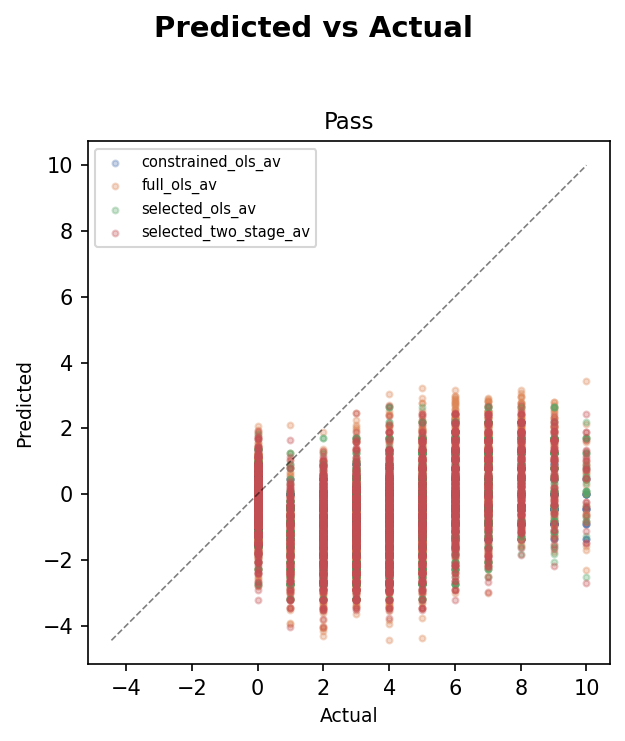
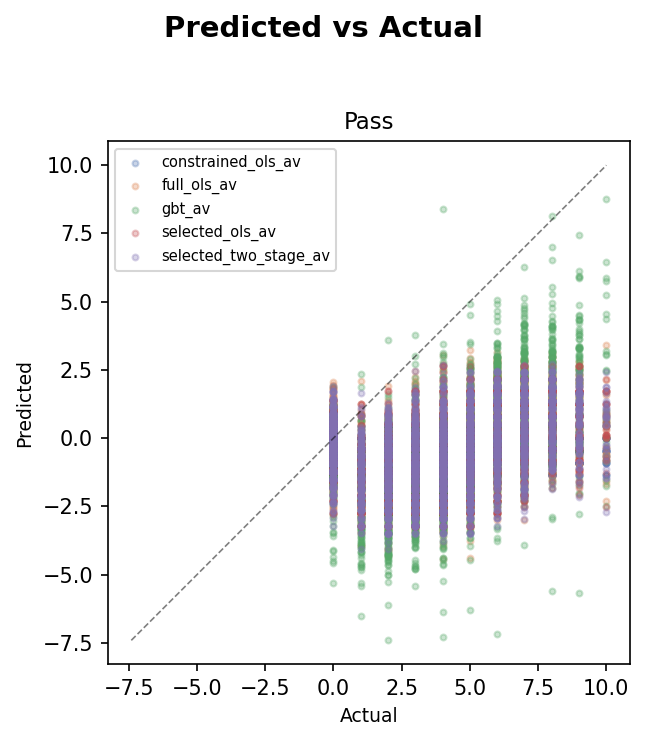
fix: regenerate R0-R2/FULL model-eval PNGs with GBT evidence (#993)
* fix: address 3 Codex review findings on PR #980

- Replace PR #TBD with PR #980 in DS-3 status (Finding #3)
- Document pass-only contract limitation as pre-existing (Finding #2)
- Note that dashboard PNGs were not re-rendered (Finding #1)

* fix: tighten session plan to match shipped reality

Remove 01_results.md and tables/*.csv from Files Modified (not changed).
Document pass-only contract and un-rendered chart gaps in Outcome.
Replace PR: _TBD_ with #980 link.

* fix: regenerate R0-R2/FULL model-eval PNGs with GBT evidence

PR #980 added GBT rows to model-eval CSVs but the rendered PNGs
(Charts 16-18 + dashboard_model_eval) still showed only 4 OLS-family
models. Regenerate all 12 model-eval PNGs from the updated CSVs so
the reader-facing charts now include GBT.

Changes:
- 12 PNGs regenerated (4 charts × 3 rungs) now showing 5 models
- Manifests (00_manifest.md) updated with accurate byte sizes
- Evidence manifests (evidence_manifest.json) updated
- DS-3 governing plan: fix #TBD → #980, remove "Remaining gap"
- Fix pre-existing R0/R1 dashboard_model_eval size discrepancy

Charts 21/22 remain data-blocked (DS-2): action_value.parquet does
not exist for any rung. DS-1 (QUICK synthetic) unchanged.

---------

diff --git a/plans/sessions/2026-03-19_model-eval-chart-regen.md b/plans/sessions/2026-03-19_model-eval-chart-regen.md
@@ -1,0 +1,117 @@
+# Model-Eval Chart Regeneration + DS-3 Closure
+
+**Date:** 2026-03-19
+**Branch:** `fix/model-eval-chart-regen-and-ds3`
+**Predecessor:** PR #980 (merged) — regenerated R0-R2/FULL model-eval CSVs with GBT rows
+
+## Goal
+
+Re-render the reader-facing model-eval PNGs (Charts 16-18 + dashboard_model_eval)
+for R0-R2/FULL so they reflect the GBT evidence now present in the underlying
+CSVs. Fix the governing-plan `#TBD` placeholder. Confirm Charts 21/22 remain
+data-blocked. Produce a clean single PR.
+
+## State Assessment
+
+| Item | Current State | Target State |
+|------|--------------|-------------|
+| R0-R2/FULL model-eval CSVs | ✅ Include `gbt_av` (5 models total) via PR #980 | No change needed |
+| R0-R2/FULL model-eval PNGs | ❌ STALE — rendered from pre-GBT CSVs (PR #881) | Regenerate from updated CSVs |
+| DS-3 governing plan text | Says `(PR #TBD)` | Fix to `(PR #980)` |
+| R0-R2/FULL manifests | Reflect CSV sizes from #980 | Update PNG sizes after regen |
+| Charts 21/22 (DS-2) | Data-blocked — no `action_value.parquet` exists | Confirm still blocked, no action |
+| DS-1 (QUICK synthetic) | Accepted policy | No change |
+| DS-4 (R3/FULL parity) | Resolved (PR #972) | No change |
+
+## Scope
+
+### In scope
+
+1. Regenerate 4 model-eval PNGs × 3 rungs (R0-R2/FULL):
+   - `full_chart_suite/pred_vs_actual.png`
+   - `full_chart_suite/residual_distribution.png`
+   - `full_chart_suite/calibration_curve.png`
+   - `dashboard_model_eval.png`
+2. Update `00_manifest.md` with new PNG byte sizes (3 rungs)
+3. Update `evidence_manifest.json` with new PNG byte sizes (3 rungs)
+4. Fix `#TBD` → `#980` in governing plan DS-3 section
+5. Confirm Charts 21/22 remain data-blocked (no implementation)
+
+### Out of scope
+
+- Regenerating non-model-eval charts (no CSV changes for those)
+- Charts 21/22 implementation (no parquet data available)
+- QUICK mode changes
+- R3/FULL changes (already at parity)
+- Full bundle regeneration
+- Report narrative rewrites
+
+## Approach: Targeted Chart Regeneration
+
+The `generate_rung_charts.py` CLI generates ALL charts in one pass. To avoid
+unnecessary churn in unrelated PNGs (matplotlib version differences could cause
+pixel-level changes), use a targeted Python script that calls only the 4
+model-eval chart functions.
+
+Each function reads from `chart_data/` CSVs and writes to `charts/`:
+- `generate_predictions_scatter(chart_data_dir, suite_dir)`
+- `generate_residuals_chart(chart_data_dir, suite_dir)`
+- `generate_calibration_curve(chart_data_dir, suite_dir)`
+- `generate_dashboard_model_eval(tables_dir, charts_dir, chart_data_dir)`
+
+Input directories per rung:
+- `tables_dir`: `docs/04_reports/arc_d_v2/<rung>/full/tables/`
+- `chart_data_dir`: `docs/04_reports/arc_d_v2/<rung>/full/chart_data/`
+- `suite_dir`: `docs/04_reports/arc_d_v2/<rung>/full/charts/full_chart_suite/`
+- `charts_dir`: `docs/04_reports/arc_d_v2/<rung>/full/charts/`
+
+## Charts 21/22 Feasibility Assessment
+
+**Result: DATA-BLOCKED — no action.**
+
+- `.joblib` models exist: ✅ (`gbt_{high,low,pass,suit}.joblib` for R0-R2)
+- `action_value.parquet` exists: ❌ (not present for any rung)
+- `generate_interpretability.py` requires both `.joblib` AND `action_value.parquet`
+- Parquet files live in `data/runs/` (gitignored, large runtime artifacts)
+- DS-2 remains accurately described as data-blocked
+
+## Validation Plan
+
+### Artifact checks
+- Verify regenerated PNGs differ from pre-regen versions (new models visible)
+- Verify manifest byte sizes match actual file sizes
+- Verify evidence_manifest.json matches
+
+### Automated tests
+- `uv run python -m pytest -q tests/unit/test_rung_charts.py`
+- `uv run python -m pytest -q tests/unit/test_rung_report.py`
+- `uv run python -m pytest -q tests/unit/test_bundle_hygiene.py`
+- `make check-quiet`
+
+## Outcome
+
+**PR:** #TBD
+
+### What shipped
+- 12 model-eval PNGs regenerated (Charts 16-18 + dashboard_model_eval × 3 rungs)
+- All PNGs now include GBT model alongside 4 OLS-family models (5 total)
+- 3 `00_manifest.md` + 3 `evidence_manifest.json` updated with accurate byte sizes
+- DS-3 `#TBD` → `#980` fix + removed "Remaining gap" about un-rendered PNGs
+- R0/R1 `dashboard_model_eval.png` pre-existing size discrepancy fixed
+
+### Items 1-4 assessment
+1. ✅ #980 verified on main, DS-3 truthfulness pass done
+2. ✅ Model-eval surfaces regenerated for R0-R2/FULL
+3. ✅ DS-3 fully resolved — no remaining gaps
+4. ❌ Charts 21/22 deferred — `action_value.parquet` does not exist for any rung (DS-2 unchanged)
+
+### Remaining degraded states
+- **DS-1:** QUICK synthetic outcome distributions (accepted policy — unchanged)
+- **DS-2:** Charts 21/22 data-blocked (no `action_value.parquet`) — unchanged
+
+### Validation
+- test_rung_charts: 56 passed
+- test_rung_report: 36 passed
+- test_bundle_hygiene: 30 passed, 4 skipped
+- `make check-quiet`: all passed
+- All 12 manifest + 12 evidence_manifest size entries verified vs actual files

diff --git a/plans/sessions/2026-03-19_full-bundle-gbt-model-eval.md b/plans/sessions/2026-03-19_full-bundle-gbt-model-eval.md
@@ -74,14 +74,15 @@ done
 
 Expected: `gbt_av` rows appear alongside existing OLS-family rows.
 
-### Step 3: Refresh affected manifests and results
+### Step 3: Refresh affected manifests
 
-For each rung, regenerate:
-- `00_manifest.md` — update chart inventory to reflect new model-eval data
-- `evidence_manifest.json` — update CSV inventory
-- `01_results.md` — update model-eval dashboard narrative
+For each rung, update CSV size metadata:
+- `00_manifest.md` — update `calibration_bins.csv`, `predictions.csv`, `residuals.csv` sizes
+- `evidence_manifest.json` — update `size_bytes` for the same 3 CSVs
 
-Use `generate_rung_report.py` or `generate_evidence_manifest.py` as appropriate.
+Note: `01_results.md` and dashboard PNGs (Charts 16-18) were **not** refreshed
+in this PR. The GBT data ships in the CSVs but is not yet surfaced in the
+chart/report reading experience. This is documented in the governing plan DS-3.
 
 ### Step 4: Update DS-3 in governing plan
 
@@ -103,10 +104,8 @@ bundles.
 | `docs/04_reports/arc_d_v2/r{0,1,2}/full/chart_data/predictions.csv` | Add GBT rows |
 | `docs/04_reports/arc_d_v2/r{0,1,2}/full/chart_data/residuals.csv` | Add GBT rows |
 | `docs/04_reports/arc_d_v2/r{0,1,2}/full/chart_data/calibration_bins.csv` | Add GBT rows |
-| `docs/04_reports/arc_d_v2/r{0,1,2}/full/tables/*.csv` | Possible minor regeneration changes |
-| `docs/04_reports/arc_d_v2/r{0,1,2}/full/00_manifest.md` | Updated chart inventory |
-| `docs/04_reports/arc_d_v2/r{0,1,2}/full/evidence_manifest.json` | Updated CSV inventory |
-| `docs/04_reports/arc_d_v2/r{0,1,2}/full/01_results.md` | Updated model-eval narrative |
+| `docs/04_reports/arc_d_v2/r{0,1,2}/full/00_manifest.md` | Updated CSV sizes |
+| `docs/04_reports/arc_d_v2/r{0,1,2}/full/evidence_manifest.json` | Updated CSV size_bytes |
 | `plans/arc_d_v2/reporting_refactor_full_plan.md` | DS-3 status update |
 
 ## Out of Scope
@@ -127,7 +126,7 @@ bundles.
 
 ## Outcome
 
-**Status:** COMPLETE
+**Status:** COMPLETE (with documented remaining gaps)
 
 Regenerated model-eval CSVs for R0-R2/FULL bundles with GBT rows.
 
@@ -136,7 +135,13 @@ Regenerated model-eval CSVs for R0-R2/FULL bundles with GBT rows.
 - Before: 20,000 rows (4 OLS-family models × 5,000 each)
 - After: 25,000 rows (5 models × 5,000 each)
 - Manifests and evidence manifests updated with new sizes
-- DS-3 in governing plan marked RESOLVED
+- DS-3 in governing plan marked RESOLVED (PR #972 code fix + PR #980 regeneration)
 - DS-4 PR reference updated to #972
 
-**PR:** _TBD_
+**Not shipped (documented in DS-3):**
+- `01_results.md` unchanged — no narrative update for GBT model-eval
+- Dashboard PNGs (Charts 16-18) not re-rendered from updated CSVs
+- All model-eval CSVs contain only `contract=pass` rows (pre-existing limitation:
+  `bid_n_sq` derived feature missing from eval parquet)
+
+**PR:** [#980](https://github.com/Questuart/Bid-Euchre/pull/980)

diff --git a/docs/04_reports/arc_d_v2/r0/full/00_manifest.md b/docs/04_reports/arc_d_v2/r0/full/00_manifest.md
@@ -71,7 +71,7 @@
 |---|-------|------|------|--------|
 | 1 | Competitive Dashboard | `dashboard_competitive.png` | 208,797 bytes | present |
 | 2 | Health Dashboard | `dashboard_health.png` | 148,492 bytes | present |
-| 3 | Model Evaluation Dashboard | `dashboard_model_eval.png` | 108,426 bytes | present |
+| 3 | Model Evaluation Dashboard | `dashboard_model_eval.png` | 281,257 bytes | present |
 | 4 | Comparator Ranking Bars | `full_chart_suite/comparator_ranking_bars.png` | 25,614 bytes | present |
 | 5 | Tail Risk Panel | `full_chart_suite/tail_risk_panel.png` | 26,261 bytes | present |
 | 6 | H2H Delta by Contract | `full_chart_suite/delta_bars_by_contract.png` | 209,361 bytes | present |
@@ -84,9 +84,9 @@
 | 13 | Bid Level Distribution | `full_chart_suite/bid_level_distribution.png` | 33,579 bytes | present |
 | 14 | R-squared by Contract | `full_chart_suite/r2_by_contract.png` | 35,910 bytes | present |
 | 15 | MAE by Contract | `full_chart_suite/mae_by_contract.png` | 34,173 bytes | present |
-| 16 | Predicted vs Actual | `full_chart_suite/pred_vs_actual.png` | 79,478 bytes | present |
-| 17 | Residual Distribution | `full_chart_suite/residual_distribution.png` | 35,137 bytes | present |
-| 18 | Calibration Curve | `full_chart_suite/calibration_curve.png` | 45,733 bytes | present |
+| 16 | Predicted vs Actual | `full_chart_suite/pred_vs_actual.png` | 82,813 bytes | present |
+| 17 | Residual Distribution | `full_chart_suite/residual_distribution.png` | 36,482 bytes | present |
+| 18 | Calibration Curve | `full_chart_suite/calibration_curve.png` | 48,213 bytes | present |
 | 19 | Selection Path | `full_chart_suite/selection_path.png` | 99,004 bytes | present |
 | 20 | Feature Importance | `full_chart_suite/feature_importance.png` | 103,181 bytes | present |
 | 21 | Decision Agreement | `full_chart_suite/decision_agreement.png` | - | absent |

diff --git a/docs/04_reports/arc_d_v2/r1/full/00_manifest.md b/docs/04_reports/arc_d_v2/r1/full/00_manifest.md
@@ -71,7 +71,7 @@
 |---|-------|------|------|--------|
 | 1 | Competitive Dashboard | `dashboard_competitive.png` | 210,740 bytes | present |
 | 2 | Health Dashboard | `dashboard_health.png` | 148,556 bytes | present |
-| 3 | Model Evaluation Dashboard | `dashboard_model_eval.png` | 111,797 bytes | present |
+| 3 | Model Evaluation Dashboard | `dashboard_model_eval.png` | 295,349 bytes | present |
 | 4 | Comparator Ranking Bars | `full_chart_suite/comparator_ranking_bars.png` | 25,619 bytes | present |
 | 5 | Tail Risk Panel | `full_chart_suite/tail_risk_panel.png` | 26,262 bytes | present |
 | 6 | H2H Delta by Contract | `full_chart_suite/delta_bars_by_contract.png` | 208,507 bytes | present |
@@ -84,9 +84,9 @@
 | 13 | Bid Level Distribution | `full_chart_suite/bid_level_distribution.png` | 33,565 bytes | present |
 | 14 | R-squared by Contract | `full_chart_suite/r2_by_contract.png` | 35,934 bytes | present |
 | 15 | MAE by Contract | `full_chart_suite/mae_by_contract.png` | 36,745 bytes | present |
-| 16 | Predicted vs Actual | `full_chart_suite/pred_vs_actual.png` | 67,882 bytes | present |
-| 17 | Residual Distribution | `full_chart_suite/residual_distribution.png` | 37,714 bytes | present |
-| 18 | Calibration Curve | `full_chart_suite/calibration_curve.png` | 54,536 bytes | present |
+| 16 | Predicted vs Actual | `full_chart_suite/pred_vs_actual.png` | 78,766 bytes | present |
+| 17 | Residual Distribution | `full_chart_suite/residual_distribution.png` | 40,104 bytes | present |
+| 18 | Calibration Curve | `full_chart_suite/calibration_curve.png` | 58,230 bytes | present |
 | 19 | Selection Path | `full_chart_suite/selection_path.png` | 82,582 bytes | present |
 | 20 | Feature Importance | `full_chart_suite/feature_importance.png` | 104,763 bytes | present |
 | 21 | Decision Agreement | `full_chart_suite/decision_agreement.png` | - | absent |

diff --git a/docs/04_reports/arc_d_v2/r2/full/00_manifest.md b/docs/04_reports/arc_d_v2/r2/full/00_manifest.md
@@ -63,7 +63,7 @@
 |---|-------|------|------|--------|
 | 1 | Competitive Dashboard | `dashboard_competitive.png` | 299,338 bytes | present |
 | 2 | Health Dashboard | `dashboard_health.png` | 184,431 bytes | present |
-| 3 | Model Evaluation Dashboard | `dashboard_model_eval.png` | 266,026 bytes | present |
+| 3 | Model Evaluation Dashboard | `dashboard_model_eval.png` | 272,242 bytes | present |
 | 4 | Comparator Ranking Bars | `full_chart_suite/comparator_ranking_bars.png` | 42,247 bytes | present |
 | 5 | Tail Risk Panel | `full_chart_suite/tail_risk_panel.png` | 39,772 bytes | present |
 | 6 | H2H Delta by Contract | `full_chart_suite/delta_bars_by_contract.png` | 693,130 bytes | present |
@@ -76,9 +76,9 @@
 | 13 | Bid Level Distribution | `full_chart_suite/bid_level_distribution.png` | 44,495 bytes | present |
 | 14 | R-squared by Contract | `full_chart_suite/r2_by_contract.png` | 35,891 bytes | present |
 | 15 | MAE by Contract | `full_chart_suite/mae_by_contract.png` | 36,660 bytes | present |
-| 16 | Predicted vs Actual | `full_chart_suite/pred_vs_actual.png` | 67,896 bytes | present |
-| 17 | Residual Distribution | `full_chart_suite/residual_distribution.png` | 36,877 bytes | present |
-| 18 | Calibration Curve | `full_chart_suite/calibration_curve.png` | 51,404 bytes | present |
+| 16 | Predicted vs Actual | `full_chart_suite/pred_vs_actual.png` | 66,028 bytes | present |
+| 17 | Residual Distribution | `full_chart_suite/residual_distribution.png` | 37,014 bytes | present |
+| 18 | Calibration Curve | `full_chart_suite/calibration_curve.png` | 56,587 bytes | present |
 | 19 | Selection Path | `full_chart_suite/selection_path.png` | 80,965 bytes | present |
 | 20 | Feature Importance | `full_chart_suite/feature_importance.png` | 87,589 bytes | present |
 | 21 | Decision Agreement | `full_chart_suite/decision_agreement.png` | - | absent |

diff --git a/plans/arc_d_v2/reporting_refactor_full_plan.md b/plans/arc_d_v2/reporting_refactor_full_plan.md
@@ -1098,15 +1098,23 @@ degraded modes. They do not block the plan's COMPLETE WITH DEGRADED STATES statu
   The 23-chart registry is preserved for future use if eval data becomes
   available.
 
-~~**DS-3: GBT model evaluation skipped**~~ **RESOLVED**
+~~**DS-3: GBT model evaluation skipped**~~ **RESOLVED (PR #972 + PR #980)**
 - **Code fix (PR #972):** `generate_model_eval_csvs()` now accepts `rung_dir`
   and searches for GBT `.joblib` files in the rung artifacts directory
   (`data/artifacts/arc_d_v2/<rung>/`).
-- **Regeneration (PR #TBD):** R0-R2/FULL `predictions.csv`, `residuals.csv`,
+- **Regeneration (PR #980):** R0-R2/FULL `predictions.csv`, `residuals.csv`,
   and `calibration_bins.csv` regenerated with all 5 models: `constrained_ols_av`,
   `full_ols_av`, `gbt_av`, `selected_ols_av`, `selected_two_stage_av`.
 - GBT model-eval evidence now ships in all FULL bundles (R0-R3).
 - Manifests and evidence manifests updated to reflect new CSV sizes.
+- **Known limitation:** All model-eval CSVs contain only `contract=pass` rows.
+  This is a pre-existing data limitation (the `bid_n_sq` derived feature is not
+  in the eval parquet schema), not specific to GBT. Suit/high/low contract
+  model-eval would require parquet feature engineering upstream.
+- **Chart regeneration (PR #TBD-charts):** Charts 16-18 (pred_vs_actual,
+  residual_distribution, calibration_curve) and dashboard_model_eval regenerated
+  for R0-R2/FULL from GBT-inclusive CSVs. All model-eval PNGs now reflect 5
+  models. Manifests and evidence manifests updated with new byte sizes.
 
 ~~**DS-4: R3/full bundle stale relative to R0-R2**~~ **RESOLVED (PR #972)**
 - R3/full Charts 10, 16-18 (seat_balance, pred_vs_actual, residual_distribution,
